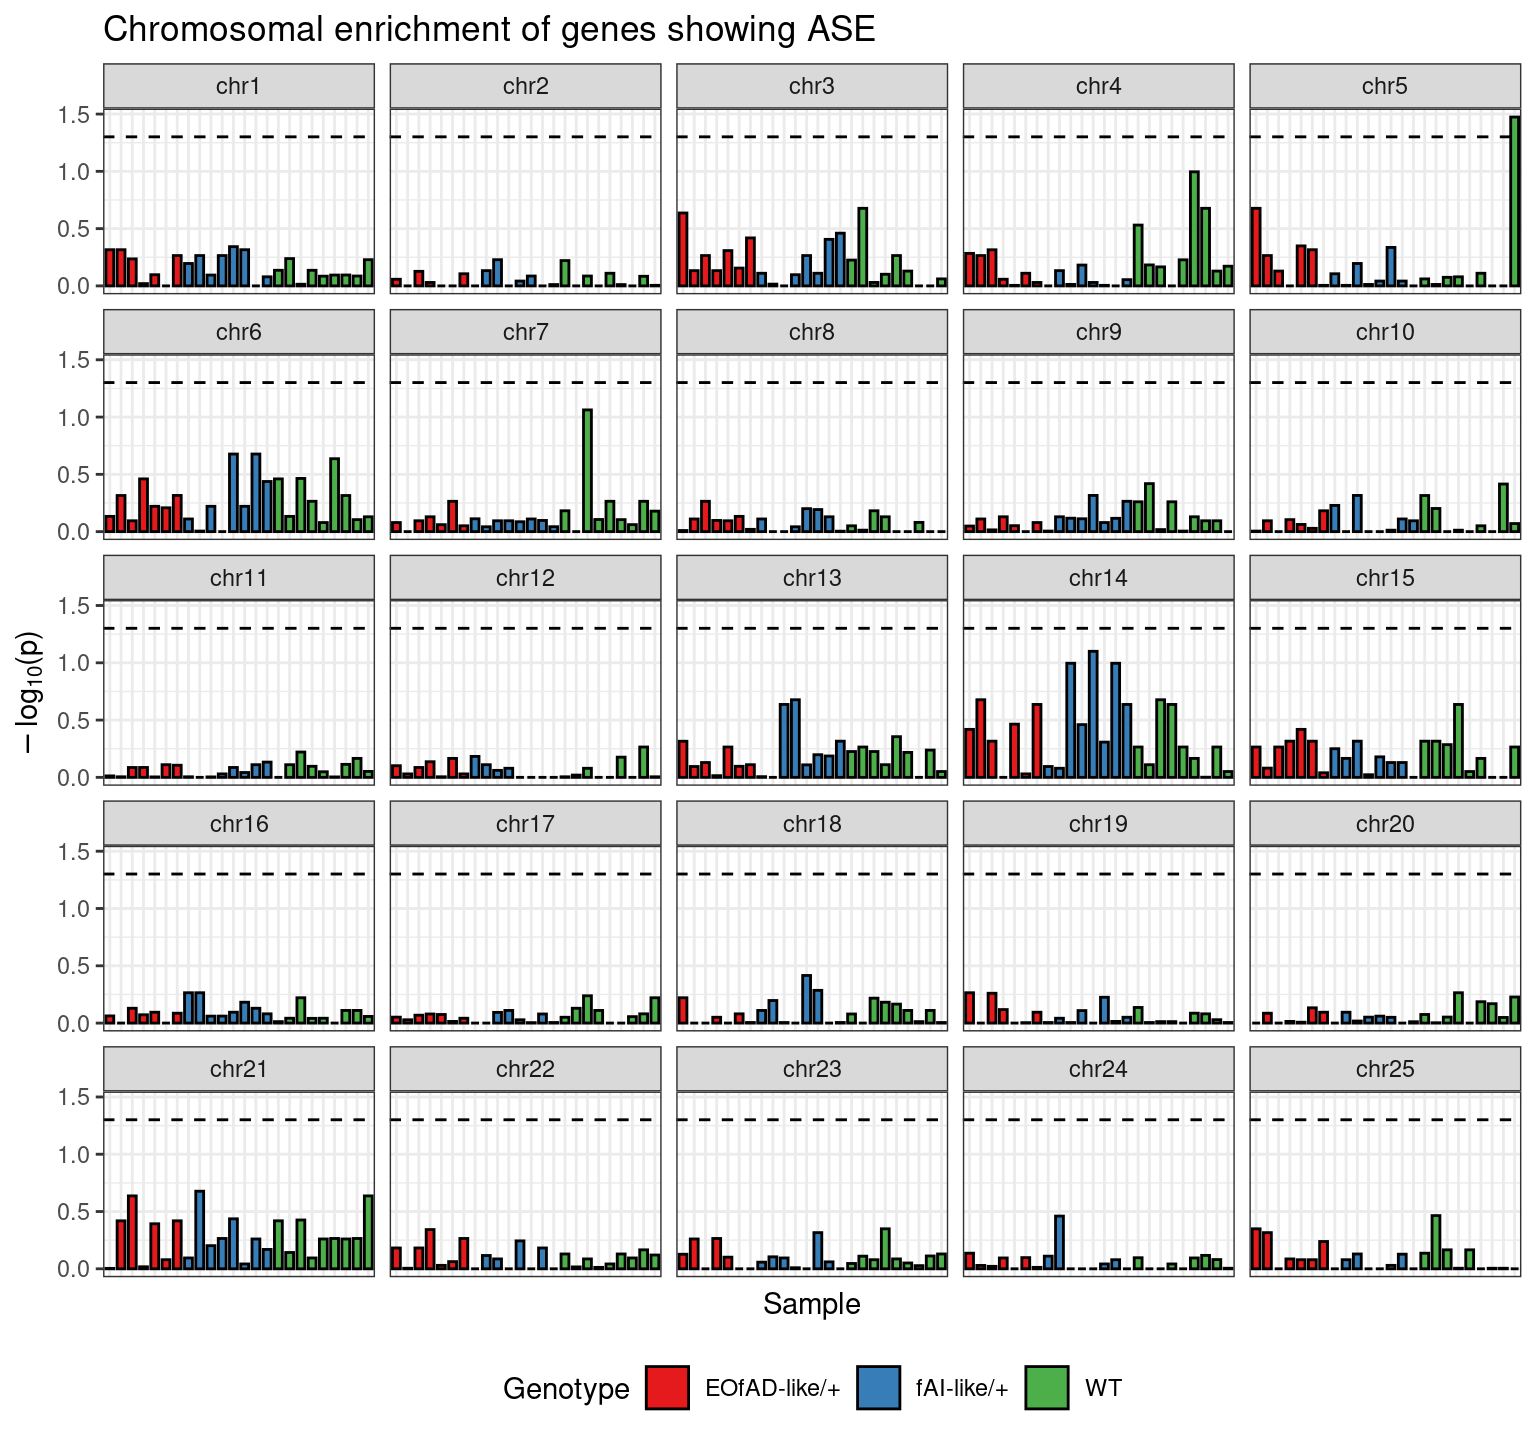
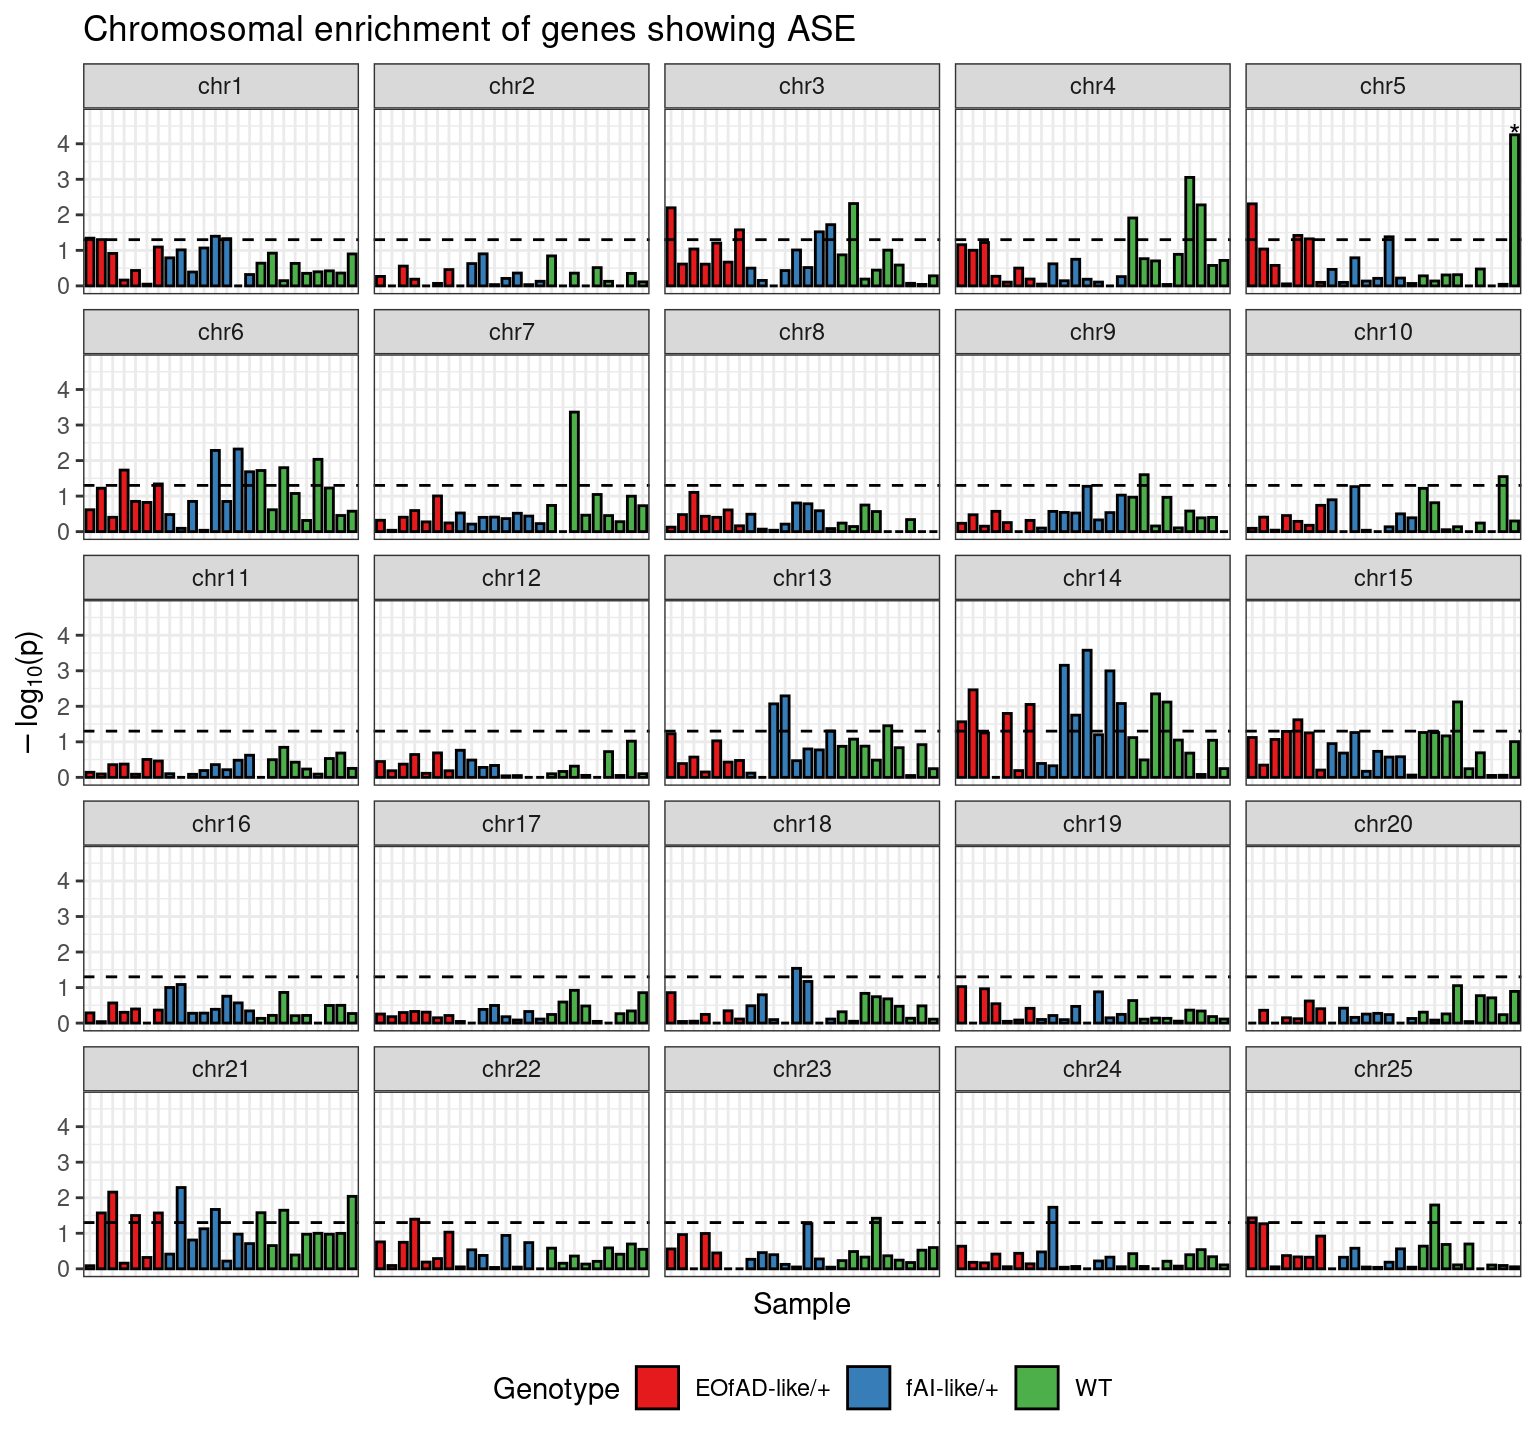
Plotted raw p-values

Changed region(s): [[0.0312, 0.0, 1.0, 1.0], [0.875, 0.0312, 0.9062, 0.0625]]

diff --git a/docs/ase_analysis.html b/docs/ase_analysis.html
@@ -369,7 +369,7 @@ div.tocify {
 
 <h1 class="title toc-ignore">Allele Specific Expression Analysis</h1>
 <h4 class="author">Lachlan Baer</h4>
-<h4 class="date">23 September, 2021</h4>
+<h4 class="date">12 October, 2021</h4>
 
 </div>
 
@@ -2013,6 +2013,7 @@ ENSDARG00000105453
     noAse_notChr = sum(noAse_chr) - noAse_chr
   ) %&gt;%
   ungroup() %&gt;%
+  left_join(metadata[,c(&quot;sample&quot;, &quot;genotype&quot;)]) %&gt;%
   mutate(
     fisherTest = pmap(
       ## Setup list input to pmap in order that will construct a correct matrix
@@ -2025,9 +2026,11 @@ ENSDARG00000105453
       numeric(1)
     ),
     fdr.p = p.adjust(fisher.p, method = &quot;fdr&quot;),
-    bonf.p = p.adjust(fisher.p, method = &quot;bonf&quot;)
-  ) %&gt;%
-  left_join(metadata[,c(&quot;sample&quot;, &quot;genotype&quot;)])</code></pre>
+    bonf.p = p.adjust(fisher.p, method = &quot;bonf&quot;),
+    sample = factor(sample, levels = metadata$sample),
+    chr = factor(chr, levels = str_sort(unique(chr), numeric = TRUE)),
+    sigLabel = ifelse(fdr.p &lt; 0.05, &quot;*&quot;, &quot;&quot;)
+  )</code></pre>
 <p>This was represented as a 2x2 contingency table for enrichment testing using Fisher’s exact test. An example of a contingency table for chromosome 17 of sample 7_KB_B12 (EOfAD-like/+ genotype) is shown below:</p>
 <center>
 <pre class="r"><code>dplyr::filter(fisherRes, sample == &quot;7_KB_B12&quot; &amp; chr == &quot;chr17&quot;) %&gt;%
@@ -2065,14 +2068,12 @@ ENSDARG00000105453
 </table>
 </center>
 <pre class="r"><code>fisherRes %&gt;%
-  mutate(
-    sample = factor(sample, levels = metadata$sample),
-    chr = factor(chr, levels = str_sort(unique(chr), numeric = TRUE))
-  ) %&gt;%
-  ggplot(aes(sample, -log10(fdr.p), fill = genotype)) +
+  ggplot(aes(sample, -log10(fisher.p), fill = genotype)) +
   geom_bar(stat = &quot;identity&quot;, position = &quot;dodge&quot;, colour= &quot;black&quot;, width = 0.7) +
-  geom_hline(yintercept = -log10(0.05), linetype = &quot;dashed&quot;, ) +
+  geom_hline(yintercept = -log10(0.05), linetype = &quot;dashed&quot;) +
+  geom_text(aes(label = sigLabel)) +
   scale_fill_manual(values = genoCols) +
+  coord_cartesian(ylim = c(NA, max(-log10(fisherRes$fisher.p)) + 0.5)) +
   labs(
     title = &quot;Chromosomal enrichment of genes showing ASE&quot;,
     x = &quot;Sample&quot;,
@@ -2085,16 +2086,16 @@ ENSDARG00000105453
     ) +
   facet_wrap(~chr)</code></pre>
 <div class="figure" style="text-align: center">
-<img src="ase_analysis_files/figure-html/fisherTestPlot-1.png" alt="*Results from Fisher's exact test for enrichment of ASE genes by chromosome. The -log10 FDR-adjusted p-value is show for each sample, which are coloured by genotype. Each chromosome is faceted for simpler viewing. The dotted line represents a FDR-adjust p-value of 0.05.*" width="768" />
+<img src="ase_analysis_files/figure-html/fisherTestPlot-1.png" alt="*Results from Fisher's exact test for enrichment of ASE genes by chromosome. The -log10(p-value) is show for each sample, which are coloured by genotype. Each chromosome is faceted for simpler viewing. The dotted line represents a p-value of 0.05. Samples satisfying a FDR-adjusted p-value of 0.05 show an asterix above the bar.*" width="768" />
 <p class="caption">
-<em>Results from Fisher’s exact test for enrichment of ASE genes by chromosome. The -log10 FDR-adjusted p-value is show for each sample, which are coloured by genotype. Each chromosome is faceted for simpler viewing. The dotted line represents a FDR-adjust p-value of 0.05.</em>
+<em>Results from Fisher’s exact test for enrichment of ASE genes by chromosome. The -log10(p-value) is show for each sample, which are coloured by genotype. Each chromosome is faceted for simpler viewing. The dotted line represents a p-value of 0.05. Samples satisfying a FDR-adjusted p-value of 0.05 show an asterix above the bar.</em>
 </p>
 </div>
 </div>
 <div id="gene-set-enrichment-analysis" class="section level2">
 <h2>Gene Set Enrichment Analysis</h2>
 <p>As an alternative approach, GSEA was performed using gene sets defined based on the chromosome each gene is located.</p>
-<p>The first step for performing GSEA involved creating a ranked list . The methodology that <code>GeneiASE</code> uses for calculating p-values posed two issues when constructing a ranked list:</p>
+<p>The first step for performing GSEA involved creating a ranked list. The methodology that <code>GeneiASE</code> uses for calculating p-values posed two issues when constructing a ranked list:</p>
 <ol style="list-style-type: decimal">
 <li>Some p-values were 0
 <ul>
@@ -2208,22 +2209,25 @@ if (!file.exists(fgseaFile)) {
       adj.upper = bonfConf(adj.mean.p, n, length(adj.mean.p), limit = &quot;upper&quot;)
     )
 }) </code></pre>
-<pre class="r"><code>lapply(seq_along(mean), function(ind){
+<pre class="r"><code>meanRes &lt;- lapply(seq_along(mean), function(ind){
   x &lt;- mean[[ind]]
   x %&gt;%
     mutate(
       sample = names(mean)[ind],
-      chromosome = fct_relevel(chromosome, str_sort(chromosome, numeric = TRUE))
+      chromosome = fct_relevel(chromosome, str_sort(chromosome, numeric = TRUE)),
+      sigLabel = ifelse(adj.lower &lt; 0.05, &quot;*&quot;, &quot;&quot;)
     )
 }) %&gt;%
   bind_rows() %&gt;%
-  left_join(metadata[,c(&quot;alias&quot;, &quot;genotype&quot;)], by = c(&quot;sample&quot; = &quot;alias&quot;)) %&gt;%
-  ggplot(aes(sample, -log10(adj.mean.p))) +
-  geom_bar(stat = &quot;identity&quot;, aes(fill = genotype)) +
+  left_join(metadata[,c(&quot;alias&quot;, &quot;genotype&quot;)], by = c(&quot;sample&quot; = &quot;alias&quot;)) </code></pre>
+<pre class="r"><code>meanRes %&gt;%
+  ggplot(aes(sample, -log10(mean.p), fill = genotype)) +
+  geom_bar(stat = &quot;identity&quot;, position = &quot;dodge&quot;, colour = &quot;black&quot;, width = 0.7) +
   geom_errorbar(aes(
-    ymax = -log10(adj.lower),
-    ymin = -log10(adj.upper)
+    ymax = -log10(lower),
+    ymin = -log10(upper)
   ), width = 0.2) +
+  geom_text(aes(label = sigLabel), nudge_y = (-log10(meanRes$lower) - -log10(meanRes$mean.p)) + 0.1) +
   geom_hline(yintercept = -log10(0.05), linetype = &quot;dashed&quot;) +
   facet_wrap(~ chromosome) +
   theme(
@@ -2234,7 +2238,7 @@ if (!file.exists(fgseaFile)) {
   ) +
   scale_fill_manual(values = genoCols) +
   labs(y = log10plab)</code></pre>
-<p><img src="ase_analysis_files/figure-html/unnamed-chunk-10-1.png" width="768" style="display: block; margin: auto;" /></p>
+<p><img src="ase_analysis_files/figure-html/unnamed-chunk-11-1.png" width="768" style="display: block; margin: auto;" /></p>
 </div>
 </div>
 
